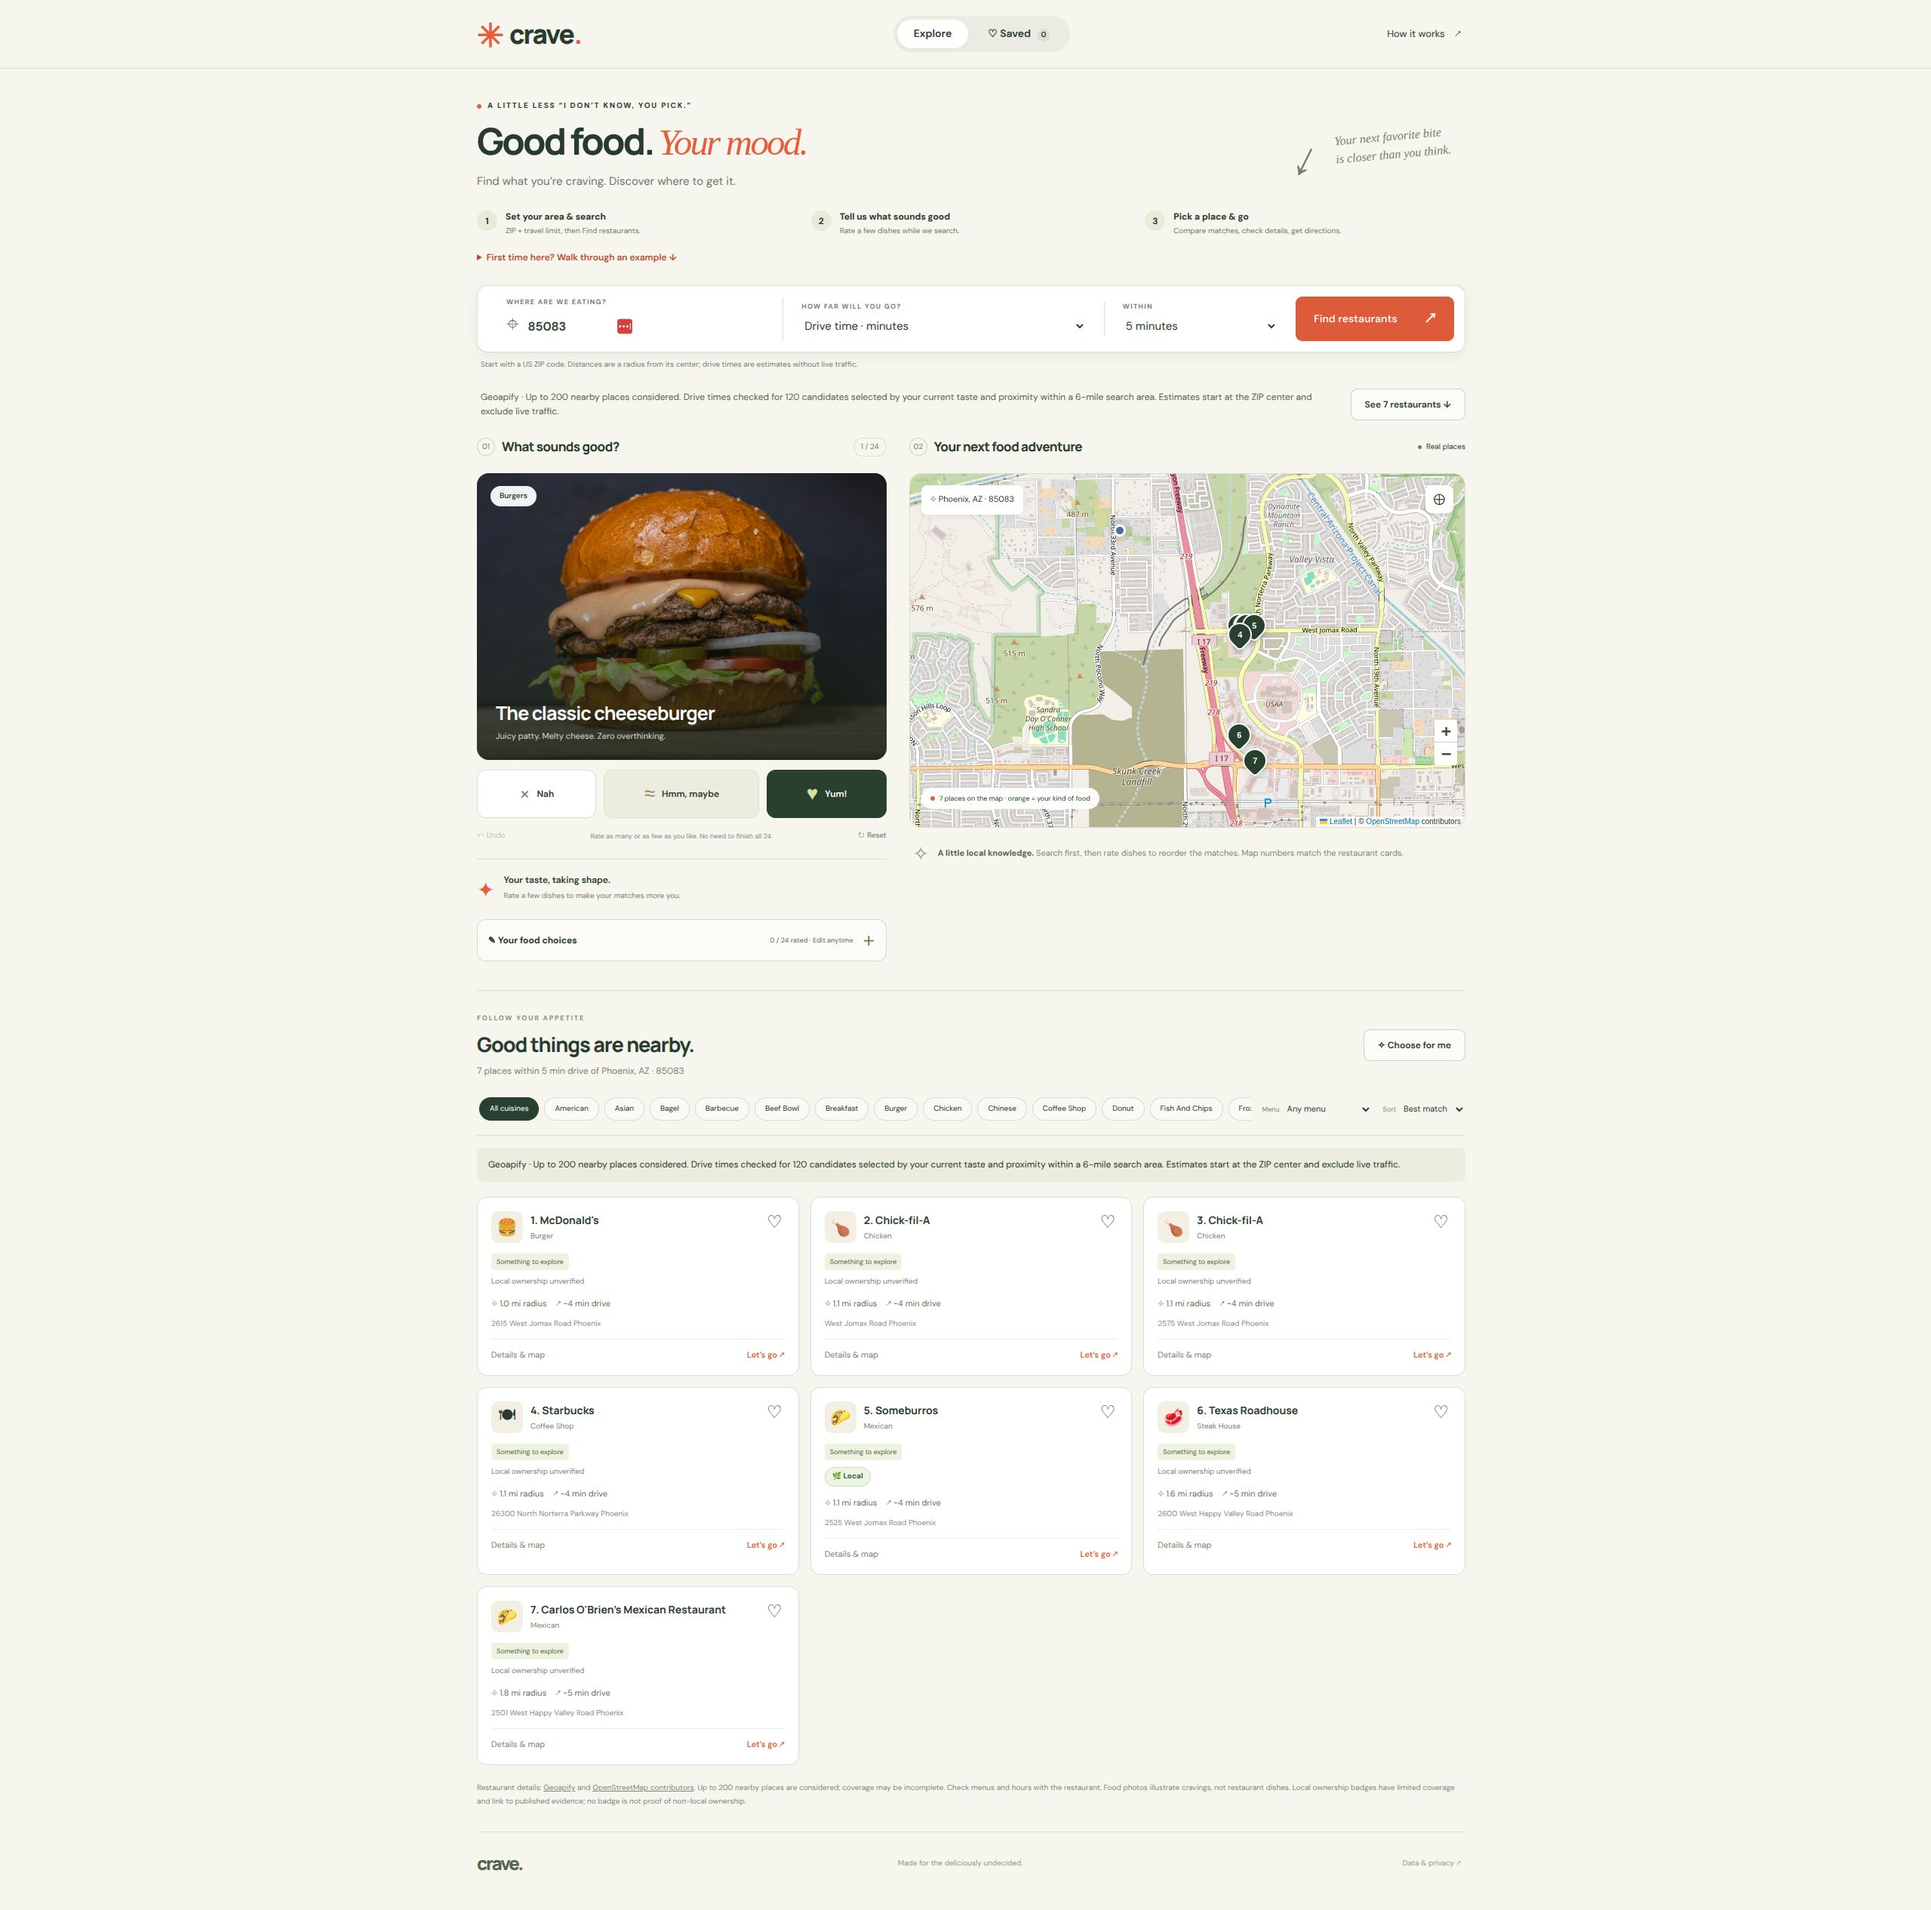
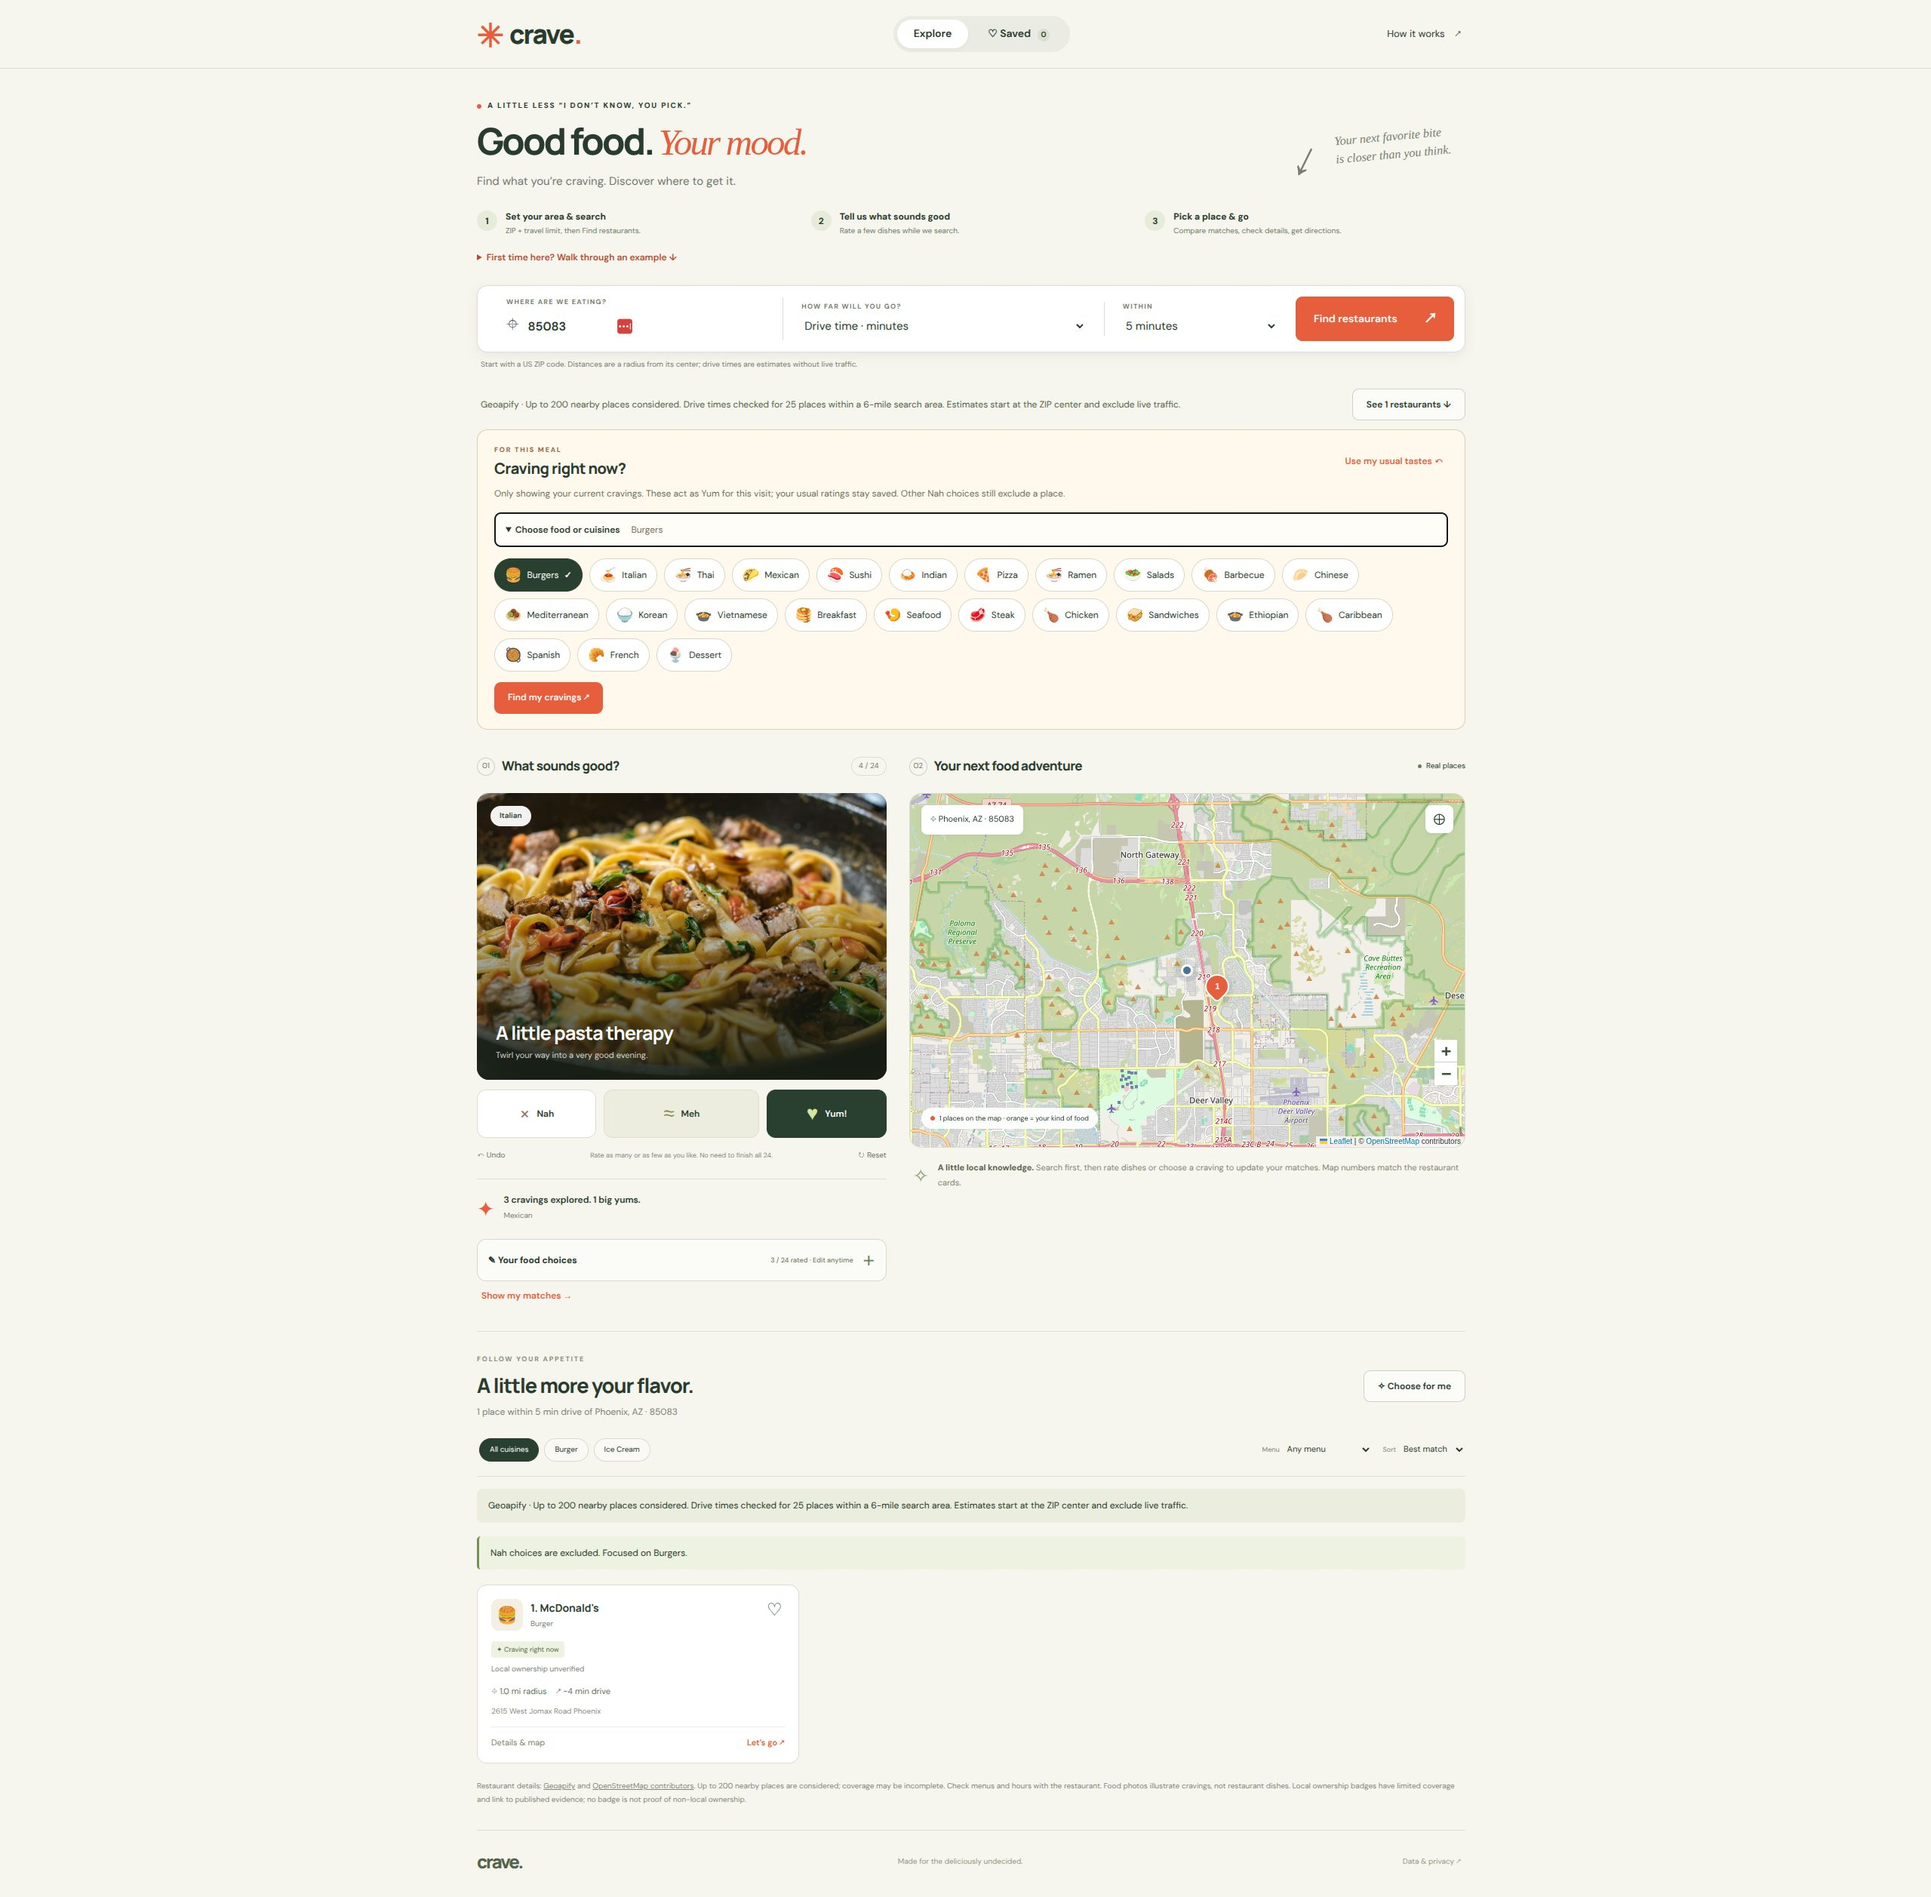
Refresh README screenshot for current cravings interface

diff --git a/README.md b/README.md
@@ -26,7 +26,9 @@
 
 > **Just bring your appetite.** Visitors enter a ZIP code and search—no API key, account, or browser setup. The app owner configures Geoapify once on Vercel. Incognito sessions work the same way; only locally saved food choices disappear when a private session ends.
 
-![Crave showing real restaurants within a five-minute drive of ZIP 85083](docs/crave-app.jpg)
+![Crave with Burgers selected under Craving right now, the Meh rating option, and a matching restaurant within a five-minute drive of ZIP 85083](docs/crave-app.jpg)
+
+*Current interface captured in the local preview using the live restaurant and driving-time APIs. The burger craving is temporary; saved ratings stay unchanged. Results vary with preferences and provider data.*
 
 ## Dinner, without the debate
 
